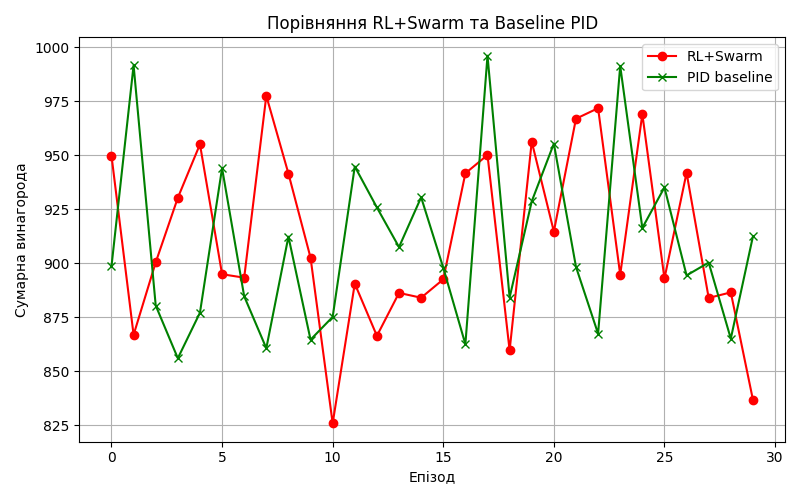
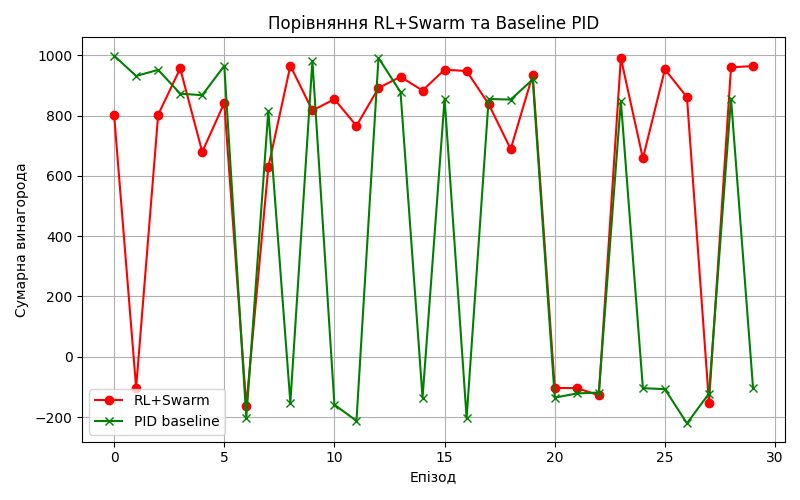
Change the core logic

diff --git a/experiments/run_experiment.py b/experiments/run_experiment.py
@@ -1,6 +1,7 @@
 import gymnasium
 import hydra
 import numpy as np
+import pandas as pd
 # Регистрация должна отработать в core/env.py, но на всякий:
 from gymnasium.envs.registration import register
 from gymnasium.wrappers import TimeLimit
@@ -26,37 +27,82 @@ def main(cfg: DictConfig):
     def make_env():
         env = gymnasium.make("AHTMEnv-v0", config=cfg)
         return TimeLimit(env, max_episode_steps=cfg["simulation"]["max_episode_steps"])
-
+    ## До изменений
     # === Навчання RL-агента ===
     vec_env = DummyVecEnv([make_env])
-    agent = PPO("MlpPolicy", vec_env, verbose=1)
+    agent = PPO(
+        "MlpPolicy",
+        vec_env,
+        verbose=1,
+        ent_coef=0.05,
+        learning_rate=0.0003,
+        clip_range=0.25,
+        policy_kwargs=dict(net_arch=[128, 128])
+    )
     agent.learn(total_timesteps=cfg["training"]["timesteps"])
 
     # === Оцінка RL ===
     test_env = make_env()
-    rl_rewards, pid_rewards = [], []
     num_episodes = 30
+
+    rl_rewards, pid_rewards = [], []
+    episode_rewards = []
+    all_metrics = []
+    all_pid_params = []
+
+    rl_mae_all, pid_mae_all = [], []
+    rl_successes, pid_successes = 0, 0
+    rl_steps, pid_steps = [], []
+
     for _ in range(num_episodes):
         obs, _ = test_env.reset()
         done, cum_reward = False, 0
+        episode_mae = []
+        step = 0
         while not done:
             action = agent.predict(obs, deterministic=True)[0]
-            obs, reward, terminated, truncated, _ = test_env.step(action)
+            obs, reward, terminated, truncated, info = test_env.step(action)
             cum_reward += reward
             done = terminated or truncated
+
+            # Для MAE
+            errors = info.get("errors", np.array([np.nan]))
+            mae = float(np.mean(errors))
+            episode_mae.append(mae)
+            step += 1
+
         rl_rewards.append(cum_reward)
+        rl_mae_all.append(np.mean(episode_mae))
+        rl_steps.append(step)
+        if mae < test_env.unwrapped.done_thresh:
+            rl_successes += 1
+
+    pd.DataFrame(episode_rewards).to_csv("episode_rewards.csv", index=False)
+    pd.DataFrame(all_metrics).to_csv("metrics.csv", index=False)
+    pd.DataFrame(all_pid_params).to_csv("pid_params.csv", index=False)
 
     # === Оцінка Baseline ===
     target_coord = test_env.unwrapped.target if hasattr(test_env.unwrapped, "target") else np.array([0.0, 0.0])
     for _ in range(num_episodes):
         obs, _ = test_env.reset()
         done, cum_reward = False, 0
+        episode_mae = []
         while not done:
             action = static_pid_policy(obs, target_coord)
-            obs, reward, terminated, truncated, _ = test_env.step(action)
+            obs, reward, terminated, truncated, info = test_env.step(action)
             cum_reward += reward
             done = terminated or truncated
+
+            errors = info.get("errors", np.array([np.nan]))
+            mae = float(np.mean(errors))
+            episode_mae.append(mae)
+            step += 1
+
         pid_rewards.append(cum_reward)
+        pid_mae_all.append(np.mean(episode_mae))
+        pid_steps.append(step)
+        if mae < test_env.unwrapped.done_thresh:
+            pid_successes += 1
 
     print("Mean RL reward:", np.mean(rl_rewards))
     print("Mean PID reward:", np.mean(pid_rewards))
@@ -76,6 +122,73 @@ def main(cfg: DictConfig):
     plt.show()
     print("Графік збережено: compare_rewards.png")
 
+    print("Mean RL reward:", np.mean(rl_rewards))
+    print("Mean PID reward:", np.mean(pid_rewards))
+
+    # MAE
+    print("Mean RL MAE:", np.mean(rl_mae_all))
+    print("Mean PID MAE:", np.mean(pid_mae_all))
+
+    # % Success
+    print("RL success rate:", rl_successes / num_episodes * 100, "%")
+    print("PID success rate:", pid_successes / num_episodes * 100, "%")
+
+    # Steps to goal
+    print("Mean RL steps:", np.mean(rl_steps))
+    print("Mean PID steps:", np.mean(pid_steps))
+
+    # Побудова графіків
+    plt.figure(figsize=(8, 5))
+    plt.plot(rl_rewards, label="RL+Swarm reward", color="red", marker='o')
+    plt.plot(pid_rewards, label="PID baseline reward", color="green", marker='x')
+    plt.xlabel("Епізод")
+    plt.ylabel("Сумарна винагорода")
+    plt.title("Порівняння RL+Swarm та Baseline PID (Reward)")
+    plt.legend()
+    plt.grid(True)
+    plt.tight_layout()
+    plt.savefig("compare_rewards.png")
+    plt.show()
+
+    plt.figure(figsize=(8, 5))
+    plt.plot(rl_mae_all, label="RL+Swarm MAE", color="red", marker='o')
+    plt.plot(pid_mae_all, label="PID baseline MAE", color="green", marker='x')
+    plt.xlabel("Епізод")
+    plt.ylabel("MAE")
+    plt.title("MAE на епізод")
+    plt.legend()
+    plt.grid(True)
+    plt.tight_layout()
+    plt.savefig("compare_mae.png")
+    plt.show()
+
+    # % Success
+    labels = ['RL+Swarm', 'PID baseline']
+    success_rates = [rl_successes / num_episodes * 100, pid_successes / num_episodes * 100]
+    plt.figure(figsize=(6, 4))
+    plt.bar(labels, success_rates, color=['red', 'green'])
+    plt.ylabel('% Успішних епізодів')
+    plt.title('Відсоток досягнення цілі')
+    plt.tight_layout()
+    plt.savefig("compare_success.png")
+    plt.show()
+
+    # Steps to goal
+    plt.figure(figsize=(8, 5))
+    plt.plot(rl_steps, label="RL+Swarm steps", color="red", marker='o')
+    plt.plot(pid_steps, label="PID baseline steps", color="green", marker='x')
+    plt.xlabel("Епізод")
+    plt.ylabel("Кількість кроків")
+    plt.title("Середня кількість кроків до цілі")
+    plt.legend()
+    plt.grid(True)
+    plt.tight_layout()
+    plt.savefig("compare_steps.png")
+    plt.show()
+
 
 if __name__ == "__main__":
     main()
+
+# Mean RL reward: 450.1154849761437
+# Mean PID reward: 420.48454045507566

diff --git a/core/env.py b/core/env.py
@@ -26,11 +26,20 @@ class AHTMEnv(gym.Env):
         self.max_steps = config["simulation"].get("max_episode_steps", 100)
         self.done_thresh = config["simulation"].get("done_thresh", 0.7)
         self._step_count = 0
-        self.obstacles = []
-        self.turbulence_sigma = 0.01  # трохи шуму – для новизни
+        self.obstacles = [
+            (1.5, 2.5, 1.5, 2.5),
+            (2.0, 2.5, 0.0, 1.0),
+        ]
+        self.turbulence_sigma = 0.08  # трохи шуму – для новизни
         obs_dim = self.init_positions.size + 3  # dummy PID
         self.observation_space = spaces.Box(-np.inf, np.inf, shape=(obs_dim,), dtype=np.float32)
         self.action_space = spaces.Box(low=-1, high=1, shape=(3,), dtype=np.float32)
+
+    def _is_in_obstacle(self, pos):
+        for (xmin, xmax, ymin, ymax) in self.obstacles:
+            if xmin <= pos[0] <= xmax and ymin <= pos[1] <= ymax:
+                return True
+        return False
 
     def reset(self, *, seed=None, options=None):
         super().reset(seed=seed)
@@ -51,7 +60,7 @@ class AHTMEnv(gym.Env):
         reward = -mean_err + 5 * delta
         if mean_err < self.done_thresh:
             reward += 1000
-        reward -= 1
+        reward -= 2
         if collision:
             reward -= 100
         return reward
@@ -66,17 +75,12 @@ class AHTMEnv(gym.Env):
         self.positions += action[:2] * self.dt + noise
         errors = np.linalg.norm(self.positions - self.target, axis=1)
         mean_err = float(np.mean(errors))
-        delta = self.prev_error - mean_err
-        self.prev_error = mean_err
-
-        collision = False
-
-        reward = self._compute_reward(mean_err, delta, self._step_count, collision)
+        collision = self._is_in_obstacle(self.positions[0])
+        reward = self._compute_reward(mean_err, 0, self._step_count, collision=collision)
         terminated = mean_err < self.done_thresh or collision
-        truncated = self._step_count >= self.max_steps
+        truncated = self._step_count >= self.max_steps and not terminated
         obs = self._get_obs()
         info = {"errors": errors, "collision": collision}
-
         print(
             f"Step {self._step_count}, mean_err={mean_err:.2f}, reward={reward:.2f}, pos={self.positions[0]}, terminated={terminated}")
 
